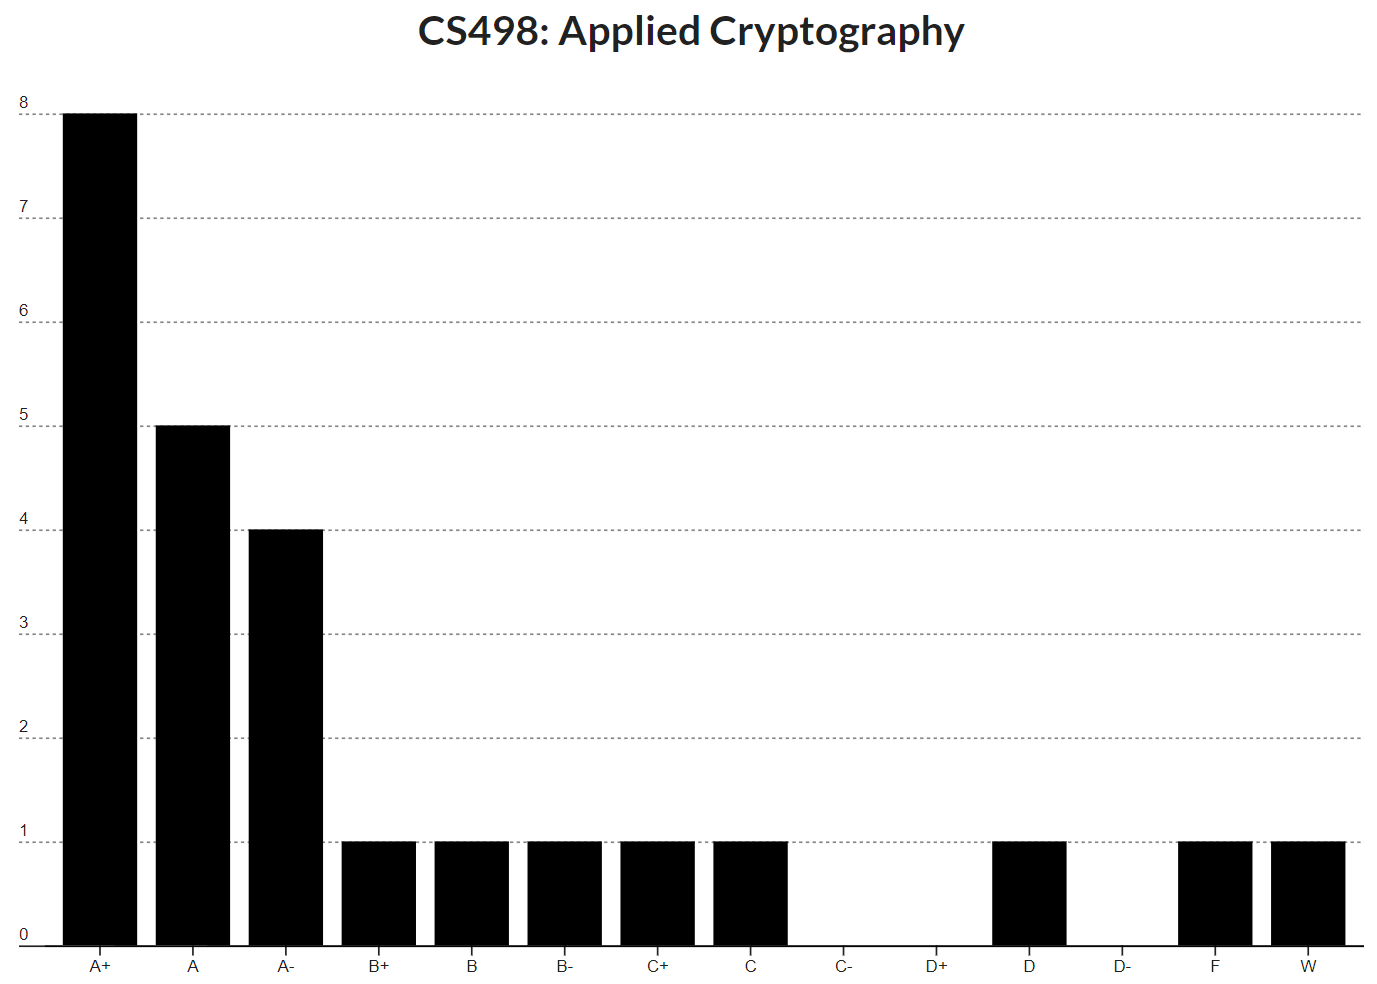
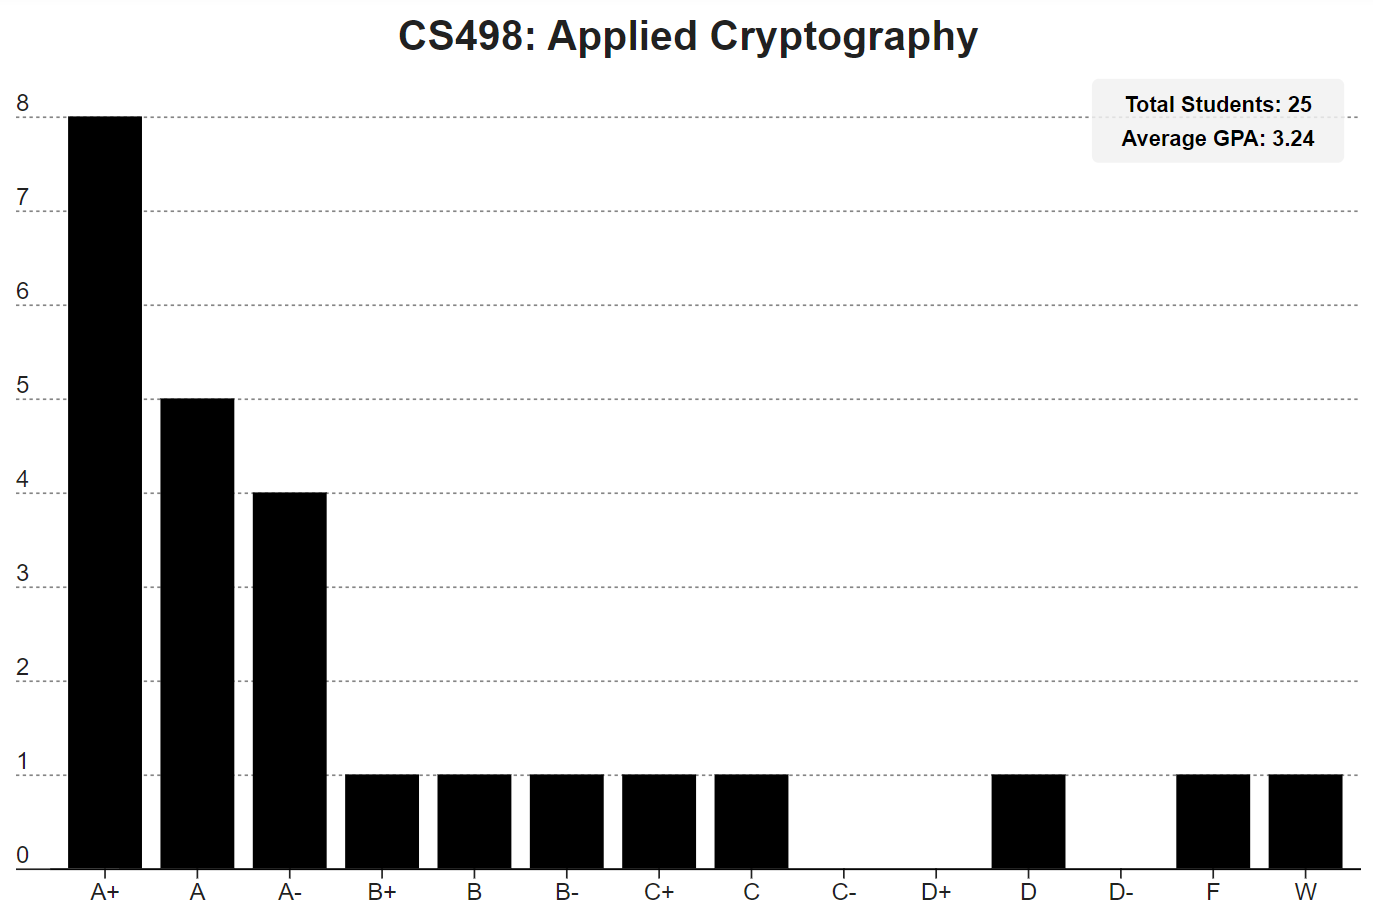
first submitted rev

diff --git a/js/menu.js b/js/menu.js
@@ -4,8 +4,8 @@ import Singleton from "./singleton.js"
 let itemHeight = 22;
 let itemWidth = 0;
 
-const tooltipWidth = 100;
-const tooltipHeight = 25;
+let tooltipWidth = 150;
+let tooltipHeight = 25;
 
 function Menu(data) {
   this.parent = null;
@@ -14,7 +14,6 @@ function Menu(data) {
   this.init = init;
   this.clear = clear;
   this.clickCallback = null;
-  this.cellPassive = null;
   this.setParent = setParent;
   this.setClickCallback = setClickCallback;
 
@@ -26,6 +25,9 @@ function setParent(parent) {
 
   this.menu = parent.append("g")
     .attr("class", "menu");
+
+  this.menuItemGroup = this.menu.append("g")
+    .attr("id", "menuItemGroup");
 
   this.tooltip = this.menu.append("g")
     .attr("class", "menuTooltip")
@@ -53,7 +55,6 @@ function setClickCallback(callback) {
 }
 
 function init(cellPassive, courseList, baseTransform) {
-  this.cellPassive = cellPassive;
   let subject = cellPassive.attr("data-subject");
   let level = +cellPassive.attr("data-level");
   let x = +cellPassive.attr("x");
@@ -74,11 +75,12 @@ function init(cellPassive, courseList, baseTransform) {
   });
 
   itemWidth = +cellPassive.attr("width");
+  tooltipWidth = itemWidth;
 
   this.menu.attr("transform", "translate(" + x + "," + y + ") " + baseTransform);
   this.clear();
 
-  let menuSelect = this.menu.selectAll(".menuItem")
+  let menuItems = this.menuItemGroup.selectAll(".menuItem")
     .data(filteredCourses)
     .enter().append("g")
       .attr("class", "menuItem")
@@ -91,27 +93,22 @@ function init(cellPassive, courseList, baseTransform) {
       .on("mouseout", handleMouseOut(this))
       .on("click", handleClick(this));
 
-  menuSelect.append("rect")
+  menuItems.append("rect")
     .attr("class", "menuItemRect")
     .attr("x", 0)
     .attr("y", 0)
     .attr("width", itemWidth)
     .attr("height", itemHeight);
 
-  menuSelect.append("text")
+  menuItems.append("text")
     .attr("class", "menuItemText")
     .attr("x", 0)
     .attr("y", itemHeight / 2.0)
-    .text(menuText);
+    .text(d => d["Number"] + "-" + d["Title"]);
 }
 
 function clear() {
-  // this.cellPassive.attr("class", "cell passive");
-  this.menu.selectAll(".menuItem").remove();
-}
-
-function menuText(d) {
-  return d["Number"] + "-" + d["Title"]
+  this.menuItemGroup.selectAll(".menuItem").remove();
 }
 
 // https://www.jstips.co/en/javascript/passing-arguments-to-callback-functions/
@@ -138,7 +135,7 @@ function handleMouseOver(parent) {
       .filter(d => d["Year"] <= Singleton.endYear());
 
     const totalStudents = d3.sum(filteredData, d => d["Total"]);
-    const transform = "translate(" + (itemWidth + 5.0) + "," + (itemHeight / 2.0 - tooltipHeight / 2.0) + ")";
+    const transform = "translate(" + 0 + "," + (-tooltipHeight) + ")";
 
     parent.tooltip
       .attr("visibility", "visible")

diff --git a/js/barchart.js b/js/barchart.js
@@ -21,6 +21,7 @@ let svg = null;
 let axis = null;
 let bars = null;
 let tooltip = null;
+let gpaTip = null;
 let header = null;
 let color = null;
 
@@ -29,6 +30,9 @@ let svgHeight = 500;
 
 let tooltipWidth = 30;
 let tooltipHeight = 20;
+
+let gpaTipWidth = 150;
+let gpaTipHeight = 50;
 
 function BarChart(data) {
   this.data = data;
@@ -77,20 +81,7 @@ function initChart() {
   let svgCell = barChart.append("div")
     .attr("class", "row");
   svg = svgCell.append("svg")
-    // .attr("width", "auto")
-    // .attr("height", "auto")
     .attr("viewBox", [0, 0, svgWidth, svgHeight]);
-
-/*
-  svg.append("rect")
-    .attr("id", "barChartBackground")
-    .attr("x", 0)
-    .attr("y", 0)
-    .attr("rx", 10)
-    .attr("ry", 10)
-    .attr("width", svgWidth)
-    .attr("height", svgHeight);
-*/
 
   axis = svg
     .append("g")
@@ -114,6 +105,22 @@ function initChart() {
     .attr("y", tooltipWidth / 2.0)
     .attr("width", tooltipWidth)
     .attr("height", tooltipHeight);
+
+  gpaTip = svg.append("g")
+    .attr("class", "tooltip")
+    .attr("transform", "translate(" + (svgWidth - gpaTipWidth - 10.0) + "," + 10 + ")");
+
+  gpaTip.append("rect")
+    .attr("width", gpaTipWidth)
+    .attr("height", gpaTipHeight)
+    .attr("rx", 4)
+    .attr("ry", 4);
+
+  gpaTip.append("text")
+    .attr("width", gpaTipWidth)
+    .attr("height", gpaTipHeight);
+
+
 
   termList = leftMenu.append("div")
     .attr("class", "ui form");
@@ -215,6 +222,16 @@ function updateChart() {
   let chartData = this.selectedData.sort(sortSelectionData);
   let pivotData = pivot(chartData);
 
+  // calculate the total number of students and average GPA
+  let gpaSums = [];
+  let totalStudents = 0;
+  Globals.grades.forEach((g, i) => {
+    let sum = d3.sum(this.filteredData.map(d => d[g]));
+    totalStudents += sum
+    gpaSums.push(sum * Globals.gpas[i])
+  });
+  let averageGpa = totalStudents > 0 ? d3.sum(gpaSums) / totalStudents : 0.0;
+
   // transpose the data into layers
   let seriesData = d3.stack()
     .keys(chartData.map(d => d["ID"]))
@@ -290,6 +307,21 @@ function updateChart() {
         tooltip.attr("transform", "translate(" + xPosition + "," + yPosition + ")");
         tooltip.select("text").text(d[1] - d[0]);
       });
+
+  let gpaText = gpaTip.select("text")
+    .attr("class", "annotation")
+    .attr("x", gpaTipWidth / 2.0);
+
+  gpaText.selectAll("*").remove();
+  gpaText
+    .append("tspan")
+    .attr("x", gpaTipWidth / 2.0)
+    .attr("y", 20)
+    .text("Total Students: " + totalStudents)
+    .append("tspan")
+    .attr("x", gpaTipWidth / 2.0)
+    .attr("y", 40)
+    .text("Average GPA: " + averageGpa.toFixed(2));
 }
 
 function yearUpdated(parent) {

diff --git a/css/main.css b/css/main.css
@@ -139,27 +139,27 @@ rect.cell.active {
 }
 
 rect.cell.passive {
-  fill: #ff4b00;
+  fill: #dedede;
   opacity: 0.50;
 }
 
 rect.cell.passive.over {
-  fill: #58bcff;
+  fill: #fee97f;
   opacity: 0.40;
 }
 
 rect.cell.passive.click {
-  fill: #58bcff;
+  fill: #fee97f;
   opacity: 1.0;
 }
 
 rect.menuItemRect {
-  fill: #58bcff;
+  fill: #fee97f;
   opacity: 1.0;
 }
 
 rect.menuItemRect.over {
-  fill: #70cf93;
+  fill: #ffffff;
   opacity: 1.0;
 }
 
@@ -192,6 +192,7 @@ g.tooltip > text {
   text-anchor: middle;
   font-size: 13px;
   font-weight: bold;
+  font-style: italic;
 }
 
 g.menuTooltip {
@@ -202,7 +203,7 @@ g.menuTooltip {
 g.menuTooltip > rect {
   fill: #ffffff;
   stroke: black;
-  stroke-width: 0.25;
+  stroke-width: 0.0;
 }
 
 g.menuTooltip > text {
@@ -260,6 +261,12 @@ circle.legendCircle {
   fill: #bac3ff;
   stroke: black;
   stroke-width: 0.25;
+}
+
+.annotation {
+  font-size: 14px;
+  font-weight: bold;
+  font-style: italic;
 }
 
 /* ==========================================================================

diff --git a/explore.html b/explore.html
@@ -25,7 +25,7 @@
 
 <body>
   <div id="header" class="ui vertical center aligned segment">
-    <h1>Good Grades & The 498 Conundrum</h1>
+    <h1>Exploring Grades in the UIUC Engineering Colleges</h1>
   </div>
   <div id="nav" class="ui vertical center raised segment"></div>
   <div id="content" class="ui vertical center aligned segment"></div>
@@ -41,7 +41,7 @@
 
   <script src="js/plugins.js"></script>
 
-  <script type="module" src="js/main.js"></script>
+  <script type="module" src="js/explore.js"></script>
 </body>
 
 </html>

diff --git a/js/explore.js b/js/explore.js
@@ -226,11 +226,11 @@ function drawAnnotations() {
     .append("tspan")
     .attr("x", 0)
     .attr("y", 50)
-    .text("3. Click on a class in that list to show the grade distribution for that class.")
+    .text("3. Click on any class in that list to show the grade distribution for that class.")
     .append("tspan")
     .attr("x", 280)
     .attr("y", 110)
-    .text("Try a 498 class. :)")
+    .text("Try a 498 class. There's plenty to choose from. :)")
     .style("fill", "red");
 }
 
